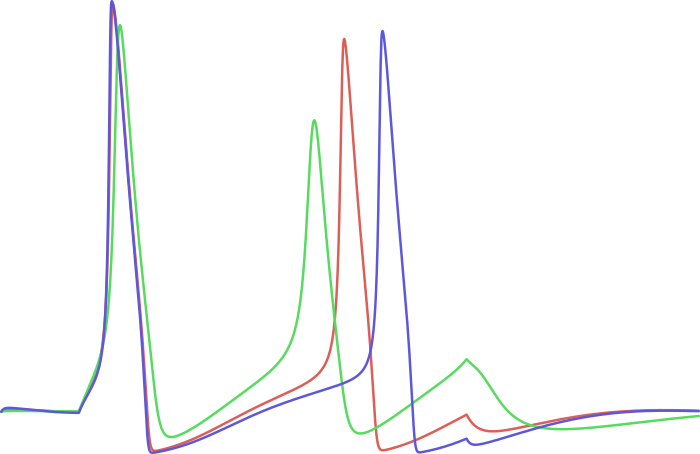
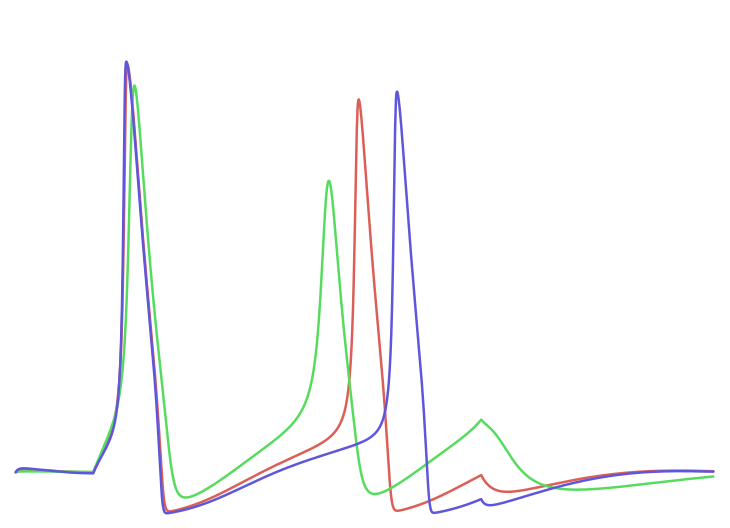
changed from 3 step

Changed region(s): [[0.0, 0.0, 1.0, 1.0], [0.63, 0.7709, 0.69, 0.8326], [0.69, 0.8326, 0.72, 0.8943]]

diff --git a/hurdal.tex b/hurdal.tex
@@ -1,4 +1,4 @@
-%\documentclass[handout]{beamer}
+% \documentclass[handout]{beamer}
 \documentclass[presentation]{beamer}
 \usepackage[utf8]{inputenc}
 \usepackage{amsmath, pdfpages, pdflscape, lscape, color, listings, hyperref, amssymb, graphicx, textcomp,varioref, afterpage, subcaption, float, bm, tikz, colortbl}
@@ -125,12 +125,11 @@ columns=fixed
 
 
 \begin{frame}
-\begin{center}
-    \textbf{\color{myred}\Large Uncertainpy: \\
-    \vspace{1mm} A Python toolbox for uncertainty\\
-    \vspace{1mm} quantification of computational neuroscience \\
-    \vspace{1mm}  models}
-\end{center}
+% \begin{center}
+    \textbf{\color{myred}\Large Uncertainpy: A Python toolbox \\
+    \vspace{1mm} for uncertainty quantification of \\
+    \vspace{2mm} computational neuroscience models}
+% \end{center}
 
 % \frametitle{\textbf{\color{myred}\Large Chaospy: \\ \vspace{1mm} A modular implementation of polynomial\\ \vspace{1mm} chaos expansions and Monte Carlo methods}}
 
@@ -152,10 +151,10 @@ columns=fixed
       \vspace{5mm}
     \small University of Oslo, CINPLA
  %
- % \begin{tikzpicture}[remember picture,overlay]
- %    \node [xshift=0.2\paperwidth,yshift=-0.14\paperheight] at (current page.center)
- %          {\includegraphics[width = 0.5\paperwidth ]{chaospy_logo.jpg}};
- %  \end{tikzpicture}
+ \begin{tikzpicture}[remember picture,overlay]
+    \node [xshift=0.19\paperwidth,yshift=-0.14\paperheight] at (current page.center)
+          {\includegraphics[width = 0.5\paperwidth ]{hh_confidence_basic.png}};
+  \end{tikzpicture}
 
   \begin{tikzpicture}[remember picture,overlay]
     \node [xshift=1.35cm,yshift=0.55cm] at (current page.south west)
@@ -167,7 +166,7 @@ columns=fixed
 
 
 
-\begin{frame}[fragile]{Uncertainpy is a Python toolbox for uncertainty quantification of computation neuroscience models}
+% \begin{frame}[fragile]{Uncertainpy is a Python toolbox for uncertainty quantification of computation neuroscience models}
 
 
   %   \begin{tikzpicture}[remember picture, overlay, font=\sffamily]
@@ -193,97 +192,200 @@ columns=fixed
 %       \node[align=left] at (image2.east) {\hspace{4cm} \bf Polynomial Chaos};
 %     \end{tikzpicture}
 
-\end{frame}
+% \end{frame}
 
 
-\begin{frame}{Creating a computational model consists of three steps, model creation, parameter estimation and uncertainty quantification}
-    \begin{tikzpicture}[remember picture, overlay, font=\sffamily]
-      \onslide<1-3>{\node [align=left, xshift=-0.35\textwidth,yshift=0.15\textwidth] (image3) at (current page.center)
-            {$I = C_m\frac{{\mathrm d} V_m}{{\mathrm d} t}  + I_{\text{ion channels}}$};
-      \node[align=left] at (image3.east) {\hspace{4cm} \bf Model creation};}
-    \end{tikzpicture}
-   %
-   % \begin{tikzpicture}[remember picture, overlay, font=\sffamily]
-   %   \onslide<1-3>{\node [align=left, xshift=-0.4\textwidth,yshift=0.15\textwidth] (image3) at (current page.center)
-   %         {\includegraphics[width = 0.4\textwidth]{compartmental.png}};
-   %   \node[align=left] at (image3.east) {\hspace{5cm} \bf Model creation};}
-   % \end{tikzpicture}
 
-  \begin{tikzpicture}[remember picture, overlay, font=\sffamily]
-  \onslide<2-3>{\node [align=left, xshift=-0.2\textwidth,yshift=-0.05\textwidth] (image1) at (current page.center)
-      {\includegraphics[width = 0.15\textwidth]{parameters.png}};
-  \node[align=left] at (image1.east) {\hspace{4.5cm} \bf Estimate parameters};}
-  \end{tikzpicture}
 
-    \begin{tikzpicture}[remember picture, overlay, font=\sffamily]
-      \onslide<3-4>{\node [align=left, xshift=0\textwidth,yshift=-0.25\textwidth] (image2) at (current page.center)
-            {\includegraphics[width = 0.25\textwidth]{uq.png}};
-      \node[align=left] at (image2.east) {\hspace{4cm} \bf Quantify uncertainties};}
-    \end{tikzpicture}
+
+\begin{frame}{Computational models are created from experimental data}
+    \begin{figure}
+      \only<1>{\includegraphics[width=1\textwidth]{neuron.png}}
+      \only<2->{\includegraphics[width=1\textwidth]{model_creation.png}}
+\end{figure}
+% \vspace{5mm}
+\begin{align*}
+    \only<-2>{ \color{white}\frac{{\mathrm d} V_m}{{\mathrm d} }}
+    \only<3>{ I &= C_m\frac{{\mathrm d} V_m}{{\mathrm d} t}  + I_{K} + I_{Na} + I_{l}}
+    \only<4>{I &= C_m\frac{{\mathrm d} V_m}{{\mathrm d} t}  + {\bf\color{red}I_{K}}+ {\bf\color{red}I_{Na}} + {\bf \color{red}I_{l}}}
+\end{align*}
 
 \end{frame}
 
 
-
-\begin{frame}{Uncertainty quantification is important }
+\begin{frame}{Different parameters give different model results}
+    \only<1>{\[I = C_m\frac{{\mathrm d} V_m}{{\mathrm d} t}  + {\bf\color{blue}I_{K}} + {\bf\color{green}I_{Na}} + {\bf\color{red}I_{l}}\]}
+    \begin{figure}
+        \only<1>{\includegraphics[width=0.4\textwidth]{parameters.png}}
+        \only<2>{\includegraphics[width=1\textwidth]{hh_basic.png}}
+      \end{figure}
 
 \end{frame}
 
 
+\begin{frame}{Uncertainty quantification relates uncertain parameters and model results}
+    \begin{figure}
+        \only<1>{\includegraphics[width=0.5\textwidth]{model1.png}}
+        \only<2>{\includegraphics[width=0.5\textwidth]{model2.png}}
+        \only<3>{\includegraphics[width=0.5\textwidth]{model3.png}}
+        \only<4>{\includegraphics[width=0.5\textwidth]{model4.png}}
+    \end{figure}
+\end{frame}
 
-\begin{frame}{Point wise comparison can be problematic since "the same" spike can occur at different times when varying the parameters}
+
+
+%
+% \begin{frame}{Creating a computational model consists of three steps, model creation, parameter estimation and uncertainty quantification}
+%     \begin{tikzpicture}[remember picture, overlay, font=\sffamily]
+%       \onslide<1-3>{\node [align=left, xshift=-0.35\textwidth,yshift=0.15\textwidth] (image3) at (current page.center)
+%             {$I = C_m\frac{{\mathrm d} V_m}{{\mathrm d} t}  + I_{\text{ion channels}}$};
+%       \node[align=left] at (image3.east) {\hspace{4cm} \bf Model creation};}
+%     \end{tikzpicture}
+%    %
+%    % \begin{tikzpicture}[remember picture, overlay, font=\sffamily]
+%    %   \onslide<1-3>{\node [align=left, xshift=-0.4\textwidth,yshift=0.15\textwidth] (image3) at (current page.center)
+%    %         {\includegraphics[width = 0.4\textwidth]{compartmental.png}};
+%    %   \node[align=left] at (image3.east) {\hspace{5cm} \bf Model creation};}
+%    % \end{tikzpicture}
+%
+%   \begin{tikzpicture}[remember picture, overlay, font=\sffamily]
+%   \onslide<2-3>{\node [align=left, xshift=-0.2\textwidth,yshift=-0.05\textwidth] (image1) at (current page.center)
+%       {\includegraphics[width = 0.15\textwidth]{parameters.png}};
+%   \node[align=left] at (image1.east) {\hspace{4.5cm} \bf Estimate parameters};}
+%   \end{tikzpicture}
+%
+%     \begin{tikzpicture}[remember picture, overlay, font=\sffamily]
+%       \onslide<3-4>{\node [align=left, xshift=0\textwidth,yshift=-0.25\textwidth] (image2) at (current page.center)
+%             {\includegraphics[width = 0.25\textwidth]{uq.png}};
+%       \node[align=left] at (image2.east) {\hspace{4cm} \bf Quantify uncertainties};}
+%     \end{tikzpicture}
+%
+% \end{frame}
+
+
+
+
+
+
+
+
+
+
+
+
+
+
+
+
+% \begin{frame}{Uncertainty quantification relates measurements errors and model results}
+% % \begin{itemize}
+% %     \item accuracy of model
+% %     \item effect of uncertain input
+% %     \item relationship between uncertain input and output
+% %
+% % \end{itemize}
+% \end{frame}
+\begin{frame}
+    \begin{center}
+        {\usebeamercolor[fg]{frametitle} \Large \bf Uncertainpy performs these calculations}
+    \end{center}
+\end{frame}
+
+\begin{frame}{Variations in an action potential \\(90\% confidence interval)}
+   \vspace{-5mm}
+\begin{figure}
+   \only<1>{\includegraphics[width=1\textwidth]{hh_confidence.png}}
+   \only<2>{\includegraphics[width=1\textwidth]{hh_confidence_arrow.png}}
+\end{figure}
+\end{frame}
+
+
+
+\begin{frame}{\onslide<1->{Point wise comparison \onslide<2->{can be problematic since "the same" spike can occur at different times when varying the parameters}}}
    \vspace{-5mm}
    \begin{figure}
-      \only<1>{\includegraphics[width=0.8\textwidth]{hh_thin_extract.png}}
-      \only<2>{\includegraphics[width=0.8\textwidth]{hh_thin_extract_elipse.png}}
+    %   \only<1>{\includegraphics[width=1\textwidth]{hh_basic.png}}
+      \only<1>{\includegraphics[width=1\textwidth]{hh_line.png}}
+      \only<2->{\includegraphics[width=1\textwidth]{hh_arrows.png}}
    \end{figure}
 \end{frame}
 
 
 
-\begin{frame}{90\% confidence interval for the Hodgkin-Huxley model with original uncertainties in the parameters}
-   \vspace{-5mm}
-\begin{figure}
-   \only<1>{\includegraphics[width=0.8\textwidth]{confidence-interval.png}}
-   \only<2>{\includegraphics[width=0.8\textwidth]{confidence-interval_elipse.png}}
-\end{figure}
-\end{frame}
+% \begin{frame}{90\% confidence interval for the Hodgkin-Huxley model with original uncertainties in the parameters}
+%    \vspace{-5mm}
+% \begin{figure}
+%    \only<1>{\includegraphics[width=0.8\textwidth]{confidence-interval.png}}
+%    \only<2>{\includegraphics[width=0.8\textwidth]{confidence-interval_elipse.png}}
+% \end{figure}
+% \end{frame}
 
 
 \begin{frame}{The solution is to calculate the uncertainty for features such as the number of spikes}
 \vspace{-5mm}
 \begin{figure}
-   \includegraphics[width=0.8\textwidth]{hh_thin_extract_nrSpikes.png}
+   \includegraphics[width=1\textwidth]{hh_nrspikes.png}
 \end{figure}
 \end{frame}
 
-
-\begin{frame}{Sensitivity of the result for each parameter in the Hodgkin-Huxley model}
+\begin{frame}{Uncertainpy calculates the uncertainty for features such as the number of spikes}
 \vspace{-5mm}
 \begin{figure}
-   \includegraphics[width=1\textwidth]{sensitivity_grid.png}
+   \includegraphics[width=1\textwidth]{hh_nrspikes_bar.png}
 \end{figure}
 \end{frame}
+
+
+% \begin{frame}{Sensitivity of the result for each parameter in the Hodgkin-Huxley model}
+% \vspace{-5mm}
+% \begin{figure}
+%    \includegraphics[width=1\textwidth]{sensitivity_grid.png}
+% \end{figure}
+% \end{frame}
 
 
   \begin{frame}{Summary: UncertainPy is a novel Python toolbox, tailored to perform uncertainty quantification in neuroscience models}
+\vspace{-10mm}
+\begin{columns}
+
+     \column{.5\textwidth}
+     \begin{center}
+        \raggedright
+      \bf{Uncertainpy calculates uncertainty of a model from uncertain parameters}
+     \end{center}
+     \column{.5\textwidth}
+     \begin{center}
+            \includegraphics[width=0.6\textwidth]{hh_confidence_basic.png}
+     \end{center}
+
+ \end{columns}
+
+\vspace{5mm}
+
+\begin{columns}
+  \column{.5\textwidth}
+  \begin{center}
+      \raggedright
+   \bf{Uncertainpy uses features tailored to computational neuroscience models}
+  \end{center}
+       \column{.5\textwidth}
+     \begin{center}
+            \includegraphics[width=0.75\textwidth]{hh_nrspikes_basic.png}
+     \end{center}
+
+ \end{columns}
+
+\pause
+\begin{tikzpicture}[remember picture, overlay, font=\sffamily]
+
+  \node[align=left, yshift=0.1\textwidth] at (current page.south){ \bf \large Questions?};
+\end{tikzpicture}
+
 
   \begin{tikzpicture}[remember picture, overlay, font=\sffamily]
       \node [align=left, xshift=0.49\textwidth,yshift=-0.37\textwidth] (image2) at (current page.center)
             {\includegraphics[width = 0.35\textwidth]{cinpla.png}};
     \end{tikzpicture}
-
-   %  \begin{tikzpicture}[remember picture, overlay, font=\sffamily]
-   %      \node [align=left, xshift=-0.45\textwidth,yshift=-0.37\textwidth] (image2) at (current page.center)
-   %            {\includegraphics[width = 0.18\textwidth]{chaospy_logo.jpg}};
-   %    \end{tikzpicture}
-
-\pause
-\begin{tikzpicture}[remember picture, overlay, font=\sffamily]
-
-  \node[align=left, yshift=0.15\textwidth] at (current page.south){ \bf \large Questions?};
-\end{tikzpicture}
-
 
 
 \end{frame}
